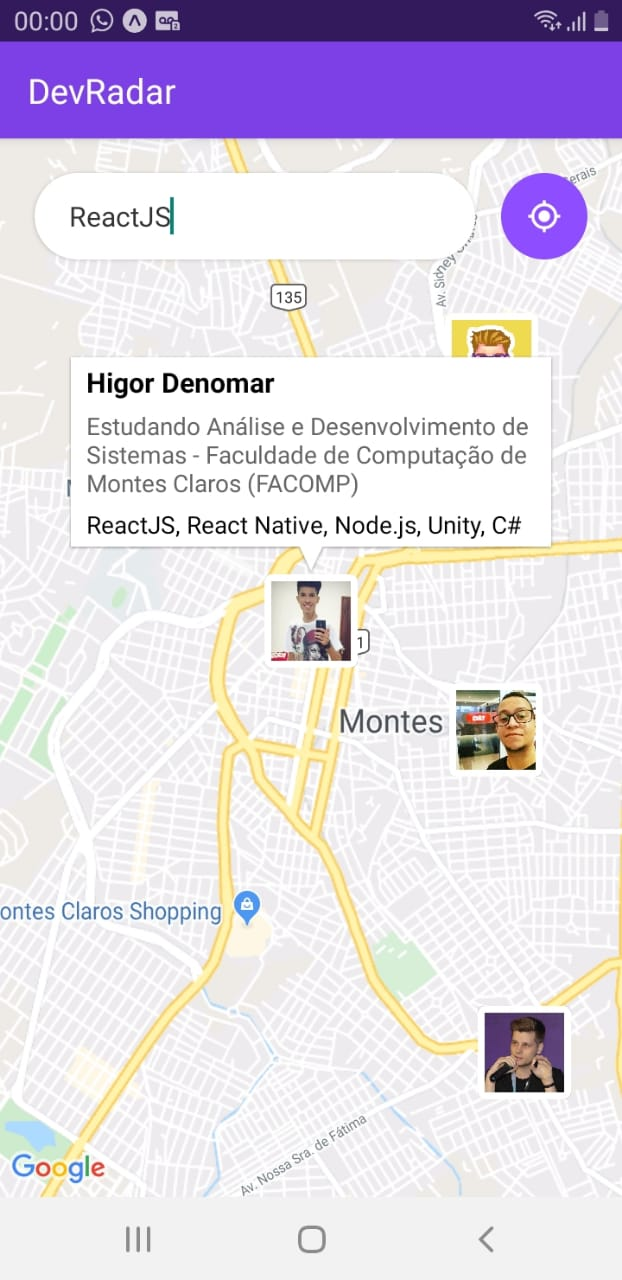
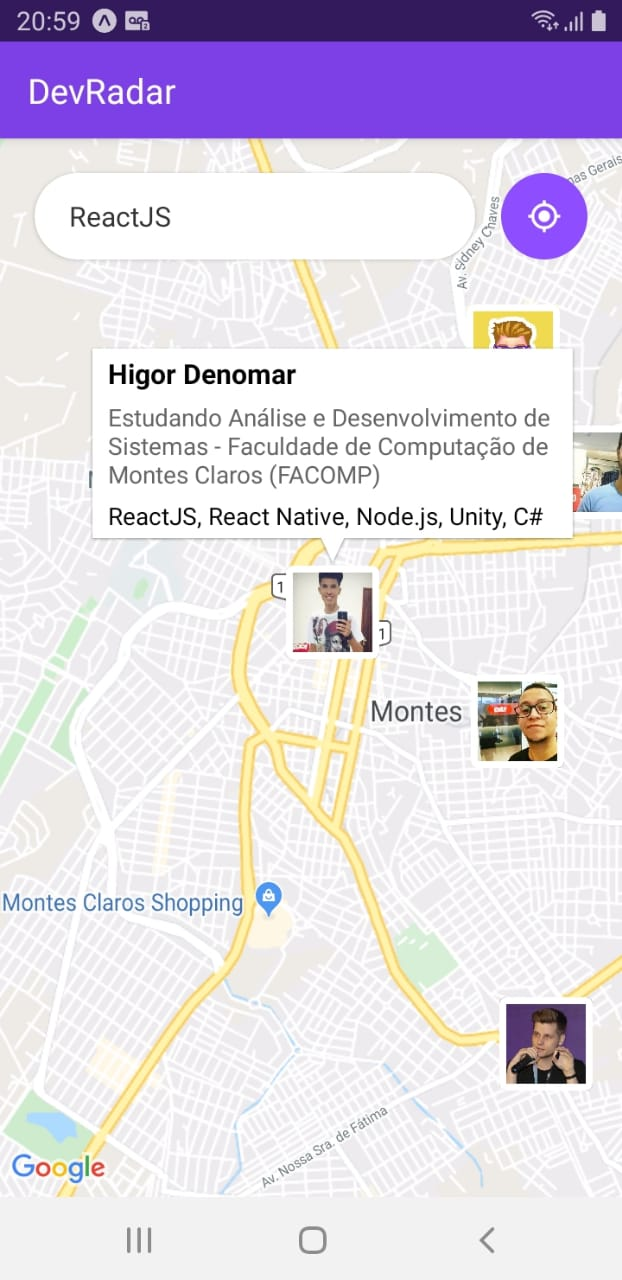
Add new pic

diff --git a/README.md b/README.md
@@ -29,7 +29,7 @@ ___
 ![Print da tela do Dev Radar Web](source/img/dev-radar-web.jpg "DevRadar Web")
 
 
-![Print da tela do Dev Radar Mobile](source/img/dev-radar-mobile.jpg "Mapa de Devs - DevRadar Mobile") 
+ <img src="source/img/dev-radar-mobile.jpg" width="421"> &nbsp; &nbsp; &nbsp; <img src="source/img/dev-radar-mobile-git.jpg" width="421">
 
 
 ---
